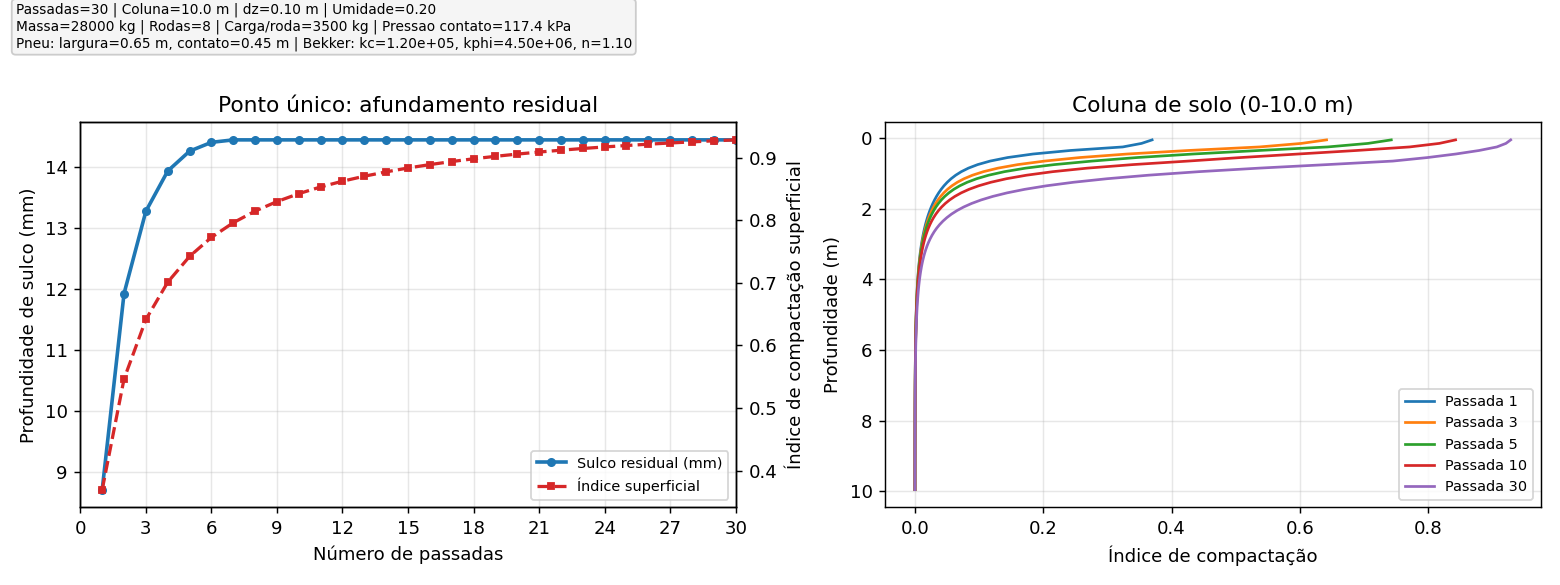
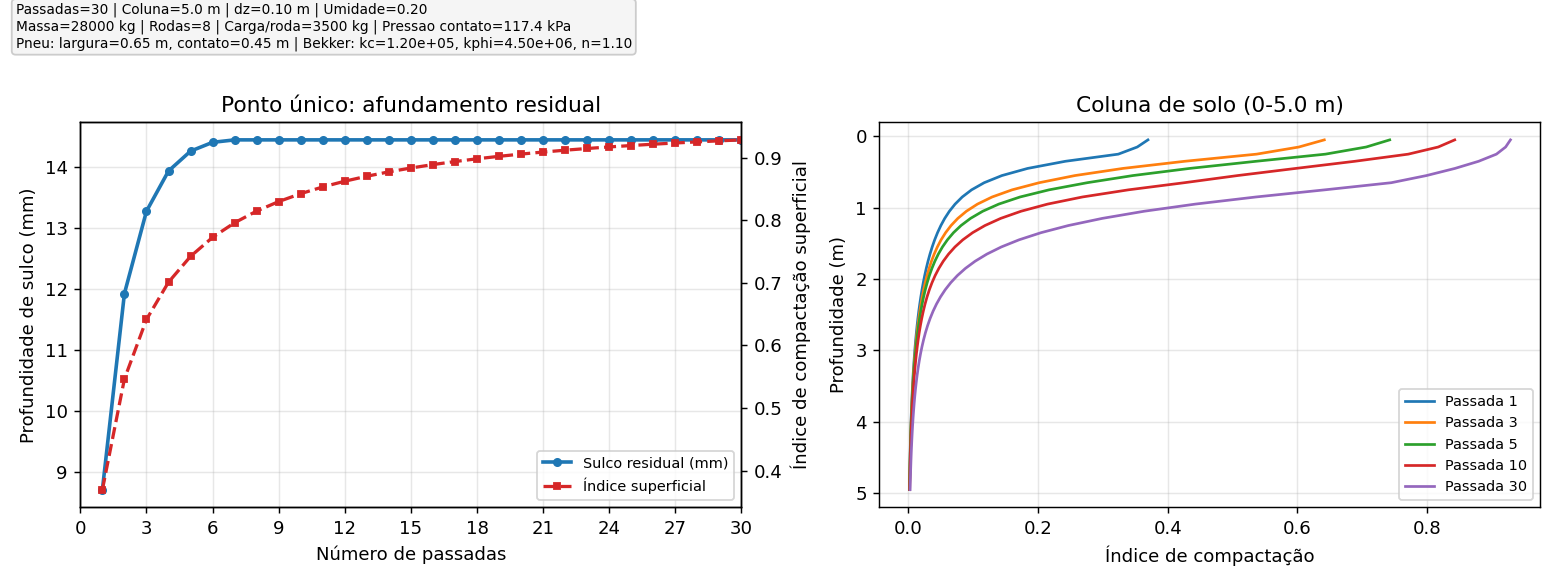
docs: corrigir referencias e ajustar dominio padrao para 5m
- corrige link do estudo de cana (PAB) e atualiza referencia UNESP com URL ativa

- ajusta profundidade padrao do modelo e da matriz OVAT para 5 m

- atualiza textos, tabelas e figuras do Sphinx para 5 m

- adiciona pagina de revisao das referencias

diff --git a/src/prototipo_ponto_unico.py b/src/prototipo_ponto_unico.py
@@ -53,7 +53,7 @@ class MachineParams:
 @dataclass
 class SimParams:
     passes: int = 30
-    depth_m: float = 10.0
+    depth_m: float = 5.0
     dz_m: float = 0.1
 
 
@@ -380,7 +380,7 @@ def parse_args() -> argparse.Namespace:
         description="Simula compactação em ponto único para passadas repetidas de máquina agrícola."
     )
     parser.add_argument("--passes", type=int, default=30, help="Número de passadas sobre o ponto")
-    parser.add_argument("--depth-m", type=float, default=10.0, help="Profundidade total da coluna (m)")
+    parser.add_argument("--depth-m", type=float, default=5.0, help="Profundidade total da coluna (m)")
     parser.add_argument("--dz-m", type=float, default=0.1, help="Espessura da camada (m)")
     parser.add_argument("--mass-kg", type=float, default=28_000.0, help="Massa total da máquina (kg)")
     parser.add_argument("--wheels", type=int, default=8, help="Quantidade de rodas")

diff --git a/src/validacao_bloco1_matriz.py b/src/validacao_bloco1_matriz.py
@@ -164,7 +164,7 @@ def parse_args() -> argparse.Namespace:
         description="Executa matriz de cenários (variando uma variável por vez) para validação física interna."
     )
     parser.add_argument("--output-dir", type=Path, default=Path("outputs/validacao_bloco1"))
-    parser.add_argument("--depth-m", type=float, default=10.0)
+    parser.add_argument("--depth-m", type=float, default=5.0)
     parser.add_argument("--dz-m", type=float, default=0.1)
     parser.add_argument("--passes", type=int, default=30)
     parser.add_argument("--mass-kg", type=float, default=28_000.0)

diff --git a/sphinx/bloco1_validacao.rst b/sphinx/bloco1_validacao.rst
@@ -53,10 +53,10 @@ Leitura crítica do Bloco 1
 - O sulco residual satura cedo no cenário de referência (ordem de 10 passadas), o que pode ser interpretado como limiar operacional inicial de intervenção.
 - O bloco valida tendência física inicial, mas não substitui calibração geotécnica/agrícola por tipo de solo.
 
-Profundidade de coluna: 10 m (justificativa técnica)
------------------------------------------------------
+Profundidade de coluna: 5 m (justificativa técnica)
+----------------------------------------------------
 
-A coluna foi ampliada para 10 m como domínio computacional conservador. Porém, para interpretação agronômica de compactação e raízes, o foco prático continua majoritariamente em camadas rasas e intermediárias.
+A coluna foi ajustada para 5 m como domínio computacional prático para as culturas-alvo desta fase. Para interpretação agronômica de compactação e raízes, o foco continua majoritariamente em camadas rasas e intermediárias.
 
 Síntese de evidências (Embrapa + artigos):
 
@@ -70,29 +70,29 @@ Síntese de evidências (Embrapa + artigos):
      - Embrapa reporta maior concentração de raízes nos primeiros 30 cm; em solos tropicais, raramente ultrapassa 60 cm, e em clima temperado pode passar de 100 cm.
      - Zona crítica de manejo tipicamente superficial a intermediária.
    * - Cana-de-açúcar
-     - PAB (2006) observou 31% de raízes metabolicamente ativas em 0,6-0,8 m (vs. 23% em 0,0-0,2 m); R. Bras. Ci. Solo (2014) reporta 15-30% das raízes abaixo de 0,60 m.
+     - PAB (2006) observou 31% de raízes metabolicamente ativas em 0,6-0,8 m (vs. 23% em 0,0-0,2 m); PAB (2012) mostra relação entre manejo/tráfego e sistema radicular.
      - Forte interação nas camadas rasas e intermediárias, com exploração relevante em profundidade.
    * - Café
      - Estudos de campo mostram concentração de raízes em 0,20-0,34 m e ocorrência de raízes finas em maior profundidade (0,80-0,94 m) em manejo conservacionista.
      - Predomínio de resposta superficial, com componente profundo dependente de solo e manejo.
    * - Laranja
-     - PAB (2007) em citros de tabuleiros costeiros reporta ~60% das raízes em 0-0,20 m e ~90% em 0-0,40 m; Embrapa recomenda solo com profundidade efetiva mínima de 1,0-1,2 m; tese com 700+ laranjeiras em sequeiro reporta profundidade máxima de raiz de 6,5 m.
+     - PAB (2007) em citros de tabuleiros costeiros reporta ~60% das raízes em 0-0,20 m e ~90% em 0-0,40 m; Embrapa recomenda solo com profundidade efetiva mínima de 1,0-1,2 m; tese de doutorado da UNESP em laranjeira 'Valência' reporta profundidade máxima de enraizamento de até 6,5 m.
      - Priorização prática em 0-0,40 m, com monitoramento complementar de camadas profundas em cenários de seca/solo favorável.
 
 Conclusão operacional da equipe
 -------------------------------
 
-- Manter 10 m como limite de domínio é aceitável para não truncar cenários profundos.
+- Manter 5 m como limite de domínio é adequado para a fase atual e para as culturas discutidas.
 - Para tomada de decisão no estágio atual, priorizar indicadores por camadas em 0-0,3 m, 0,3-1,0 m e 1,0-2,0 m.
-- Profundidades >2 m devem ser tratadas como monitoramento complementar, não como indicador principal nesta fase inicial.
+- Profundidades >2 m e até 5 m devem ser tratadas como monitoramento complementar, não como indicador principal nesta fase inicial.
 
 Referências usadas nesta síntese
 --------------------------------
 
 - Embrapa (milho): `Relações com o solo (cultivo de milho) <https://www.embrapa.br/agencia-de-informacao-tecnologica/cultivos/milho/pre-producao/caracteristicas-da-especie-e-relacoes-com-o-ambiente/relacoes-com-o-solo>`_
 - Pesquisa Agropecuária Brasileira (cana): `Quantificação de raízes metabolicamente ativas de cana-de-açúcar (2006) <https://apct.sede.embrapa.br/index.php/pab/article/view/7239>`_
-- Revista Brasileira de Ciência do Solo (cana): `Compressibilidade e sistema radicular da cana sob manejo com/sem controle de tráfego (2014) <https://www.scielo.br/j/rbcs/i/2014.v38n6/>`_
+- Pesquisa Agropecuária Brasileira (cana): `Compressibilidade do solo e sistema radicular da cana-de-açúcar em manejo com e sem controle de tráfego (2012) <https://www.scielo.br/j/pab/a/XyGwtfJrZTRDh5kcpYkpf4z/?format=html&lang=pt>`_
 - Revista Brasileira de Engenharia Agrícola e Ambiental (café): `Distribuição espacial das raízes de cafeeiro e dos poros de dois Latossolos (2014) <https://www.scielo.br/j/rbeaa/a/NYGzhX53vXVzktsfFvDCyvy/>`_
 - Pesquisa Agropecuária Brasileira (citros/laranja): `Sistema radicular dos citros em Neossolo Quartzarênico dos Tabuleiros Costeiros (2007) <https://ainfo.cnptia.embrapa.br/digital/bitstream/item/180000/1/Sistema-radicular-dos-citros-em-Neossolo-Quartzarenico.pdf>`_
 - Embrapa (citros): `Solos - Sistema de Produção de Citros para o Nordeste <https://sistemasdeproducao.cnptia.embrapa.br/FontesHTML/Citros/CitrosNordeste/solos.htm>`_
-- UNESP (laranjeira em sequeiro): `Distribuição e dinâmica do sistema radicular de laranjeira 'Valência' sob plantio direto e convencional (1998, tese) <https://repositorio.unesp.br/entities/publication/0f50f57d-b84e-4cbf-aad7-8c8ecdc8f0f4>`_
+- UNESP (laranjeira 'Valência', tese): `Distribuição de raízes e a relação com o estado hídrico de laranjeira 'Valência' enxertada sobre limoeiro 'Cravo' (2015, doutorado) <https://acervodigital.unesp.br/handle/11449/126559>`_

diff --git a/sphinx/revisao_referencias.rst b/sphinx/revisao_referencias.rst
@@ -1,0 +1,52 @@
+Revisão das Referências
+=======================
+
+Objetivo
+--------
+
+Consolidar leitura técnica das referências base para sustentar hipóteses do protótipo.
+
+Síntese por fonte
+-----------------
+
+.. list-table::
+   :header-rows: 1
+
+   * - Fonte
+     - Ponto principal para o projeto
+     - Implicação no modelo
+   * - Embrapa (milho)
+     - Maior concentração de raízes nas camadas rasas, com variação por ambiente.
+     - Justifica foco operacional em 0-0,30 m e 0,30-1,0 m.
+   * - PAB 2006 (cana, raízes ativas)
+     - Mostra atividade radicular também em camadas intermediárias (0,6-0,8 m).
+     - Suporta manter camada complementar abaixo de 0,30 m no monitoramento.
+   * - PAB 2012 (cana, compressibilidade e tráfego)
+     - Relaciona manejo de tráfego/compactação com comportamento do sistema radicular.
+     - Sustenta uso de passadas como variável de estado e limiar operacional.
+   * - RBEAA 2014 (café)
+     - Evidencia distribuição espacial de raízes e influência da estrutura de poros.
+     - Reforça abordagem por camadas com calibração por tipo de solo.
+   * - PAB 2007 (citros em Neossolo)
+     - Indica concentração radicular nas camadas mais rasas e sensibilidade a barreiras físicas.
+     - Sustenta prioridade de diagnóstico superficial e subsuperficial.
+   * - Embrapa (citros, solos)
+     - Define requisitos de solo/profundidade efetiva para implantação e manejo.
+     - Orienta limites de validade para extrapolação.
+   * - UNESP 2015 (laranjeira 'Valência', tese)
+     - Reporta enraizamento profundo em condição específica de pomar.
+     - Justifica usar 5 m como domínio prático nesta fase, sem ignorar cenários profundos.
+
+Decisão de domínio vertical para esta fase
+------------------------------------------
+
+- O domínio padrão foi ajustado para 5 m.
+- Para decisão agronômica, manter foco em 0-0,30 m, 0,30-1,0 m e 1,0-2,0 m.
+- Faixa 2,0-5,0 m permanece como monitoramento complementar.
+
+Nota sobre rastreabilidade de referências
+-----------------------------------------
+
+A referência antiga da tese UNESP de 1998 não foi mantida por indisponibilidade do endereço informado.
+Foi adotada a tese UNESP com endereço ativo no Acervo Digital.
+

diff --git a/docs/prototipo_ponto_unico.md b/docs/prototipo_ponto_unico.md
@@ -1,9 +1,9 @@
-# Protótipo: Compactação em Ponto Único (0-10 m)
+# Protótipo: Compactação em Ponto Único (0-5 m)
 
 ## Objetivo
 Este protótipo implementa, de forma **conceitual e executável**, a ideia discutida em `README.md`, `Proposta.md` e `Prototipo.md`:
 - um único ponto da superfície recebe várias passadas de uma máquina pesada;
-- a compactação evolui em uma coluna de solo (padrão de 10 m, configurável);
+- a compactação evolui em uma coluna de solo (padrão de 5 m, configurável);
 - o resultado é uma série temporal por passada + perfil vertical final.
 
 ## Modelo simplificado usado
@@ -24,7 +24,7 @@ Este protótipo implementa, de forma **conceitual e executável**, a ideia discu
 - Cada passada aproxima o sulco residual de um valor-alvo com taxa decrescente.
 - Isso simula ganho rápido nas primeiras passadas e saturação gradual depois.
 
-### 4) Coluna de 10 m (padrão)
+### 4) Coluna de 5 m (padrão)
 - A tensão vertical em profundidade é aproximada por uma solução elástica axisimétrica (área circular equivalente).
 - Cada camada recebe incremento de compactação `delta_c` proporcional a:
   - razão de tensão aplicada / pré-adensamento,

diff --git a/docs/bloco1_validacao_matriz_e_profundidade.md b/docs/bloco1_validacao_matriz_e_profundidade.md
@@ -1,7 +1,7 @@
 # Bloco 1 — Matriz de cenários e profundidade da coluna
 
 ## O que foi feito
-1. Ajuste do protótipo para coluna padrão de `10 m` (configurável).
+1. Ajuste do protótipo para coluna padrão de `5 m` (configurável).
 2. Execução da matriz OVAT (uma variável por vez) em `outputs/validacao_bloco1/`.
 3. Geração de página dedicada no Sphinx: `sphinx/bloco1_validacao.rst`.
 
@@ -17,8 +17,8 @@
 - `outputs/validacao_bloco1/gate_checks.csv`
 
 ## Referências de profundidade radicular
-A síntese de referências (Embrapa + artigos científicos) e a justificativa técnica do domínio de 10 m estão documentadas em:
+A síntese de referências (Embrapa + artigos científicos) e a justificativa técnica do domínio de 5 m estão documentadas em:
 - `sphinx/bloco1_validacao.rst`
 
 ## Observação
-A adoção de 10 m é tratada como limite computacional conservador. Para interpretação agronômica nesta fase, a priorização permanece nas camadas rasas e intermediárias.
+A adoção de 5 m é tratada como limite computacional prático para esta fase. Para interpretação agronômica, a priorização permanece nas camadas rasas e intermediárias.

diff --git a/README.md b/README.md
@@ -1,5 +1,5 @@
 # SoloCompactado-IPT
-Este protótipo implementa, de forma **conceitual e executável**, a ideia discutida em `README.md`, `Proposta.md` e `Prototipo.md`: - um único ponto da superfície recebe várias passadas de uma máquina pesada; - a compactação evolui em uma coluna de solo (padrão de 10 m, configurável); - o resultado é uma série temporal por passada + perfil vertical final.
+Este protótipo implementa, de forma **conceitual e executável**, a ideia discutida em `README.md`, `Proposta.md` e `Prototipo.md`: - um único ponto da superfície recebe várias passadas de uma máquina pesada; - a compactação evolui em uma coluna de solo (padrão de 5 m, configurável); - o resultado é uma série temporal por passada + perfil vertical final.
 
 ## Visão geral
 Este projeto propõe um **protótipo (TRL 4–5)** para ajudar agricultores a **identificar o momento ótimo de renovação** (descompactação/intervenção) em **linhas específicas de tráfego** onde as máquinas passam repetidamente (tráfego controlado com precisão centimétrica/RTK).

diff --git a/sphinx/roteiro_apresentacao.rst b/sphinx/roteiro_apresentacao.rst
@@ -12,7 +12,7 @@ Sequência sugerida (10-15 min)
 1. Problema de campo: compactação acumulada em faixas de tráfego.
 2. Hipótese técnica: carga + passadas + umidade controlam o dano acumulado.
 3. Modelo físico simplificado: pressão-afundamento e atualização por camadas.
-4. Evidência visual: evolução do sulco e perfil de 0-10 m.
+4. Evidência visual: evolução do sulco e perfil de 0-5 m.
 5. Plano de calibração: pontos sentinela e campanhas periódicas.
 6. Próximo passo: expansão para trilhas 2D e integração com telemetria real.
 

diff --git a/sphinx/leitura_resultados.rst b/sphinx/leitura_resultados.rst
@@ -40,7 +40,7 @@ Interpretação recomendada:
 - esse ponto pode ser usado como ``limiar de intervenção`` (ex.: renovar/descompactar após ~10 passadas naquela condição);
 - a calibração de campo continua necessária para garantir que esse limiar corresponde a impacto agronômico real no talhão.
 
-Gráfico 2 - Perfil final da coluna (0-10 m)
+Gráfico 2 - Perfil final da coluna (0-5 m)
 --------------------------------------------
 
 Mostra a distribuição do índice de compactação com a profundidade para passadas selecionadas.

diff --git a/sphinx/visao_geral.rst b/sphinx/visao_geral.rst
@@ -12,7 +12,7 @@ Objetivo do protótipo
 O protótipo simula, em um único ponto da trilha:
 
 - evolução do sulco residual ao longo das passadas,
-- evolução do índice de compactação na coluna de solo (0 a 10 m, configurável),
+- evolução do índice de compactação na coluna de solo (0 a 5 m, configurável),
 - leituras sintéticas de sensores virtuais (cone index e densidade aparente).
 
 Escopo técnico atual

diff --git a/sphinx/index.rst b/sphinx/index.rst
@@ -27,6 +27,7 @@ Público-alvo: engenheiros e tecnólogos com experiência em solos e geotecnia, 
    modelo_ponto_unico
    leitura_resultados
    bloco1_validacao
+   revisao_referencias
    glossario
    validacao_calibracao
    referencia_codigo

diff --git a/sphinx/modelo_ponto_unico.rst b/sphinx/modelo_ponto_unico.rst
@@ -1,4 +1,4 @@
-Modelo de Ponto Único (0-10 m)
+Modelo de Ponto Único (0-5 m)
 ==============================
 
 Para auditoria técnica com navegação até o código-fonte, consulte :doc:`referencia_codigo`.
